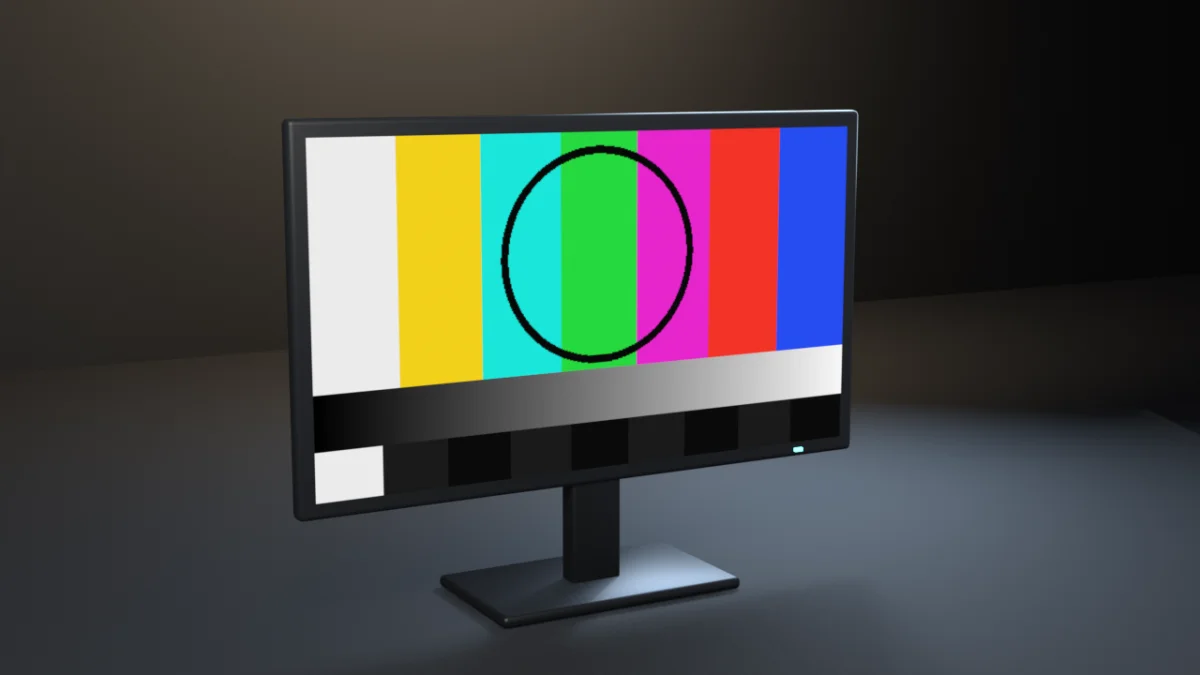
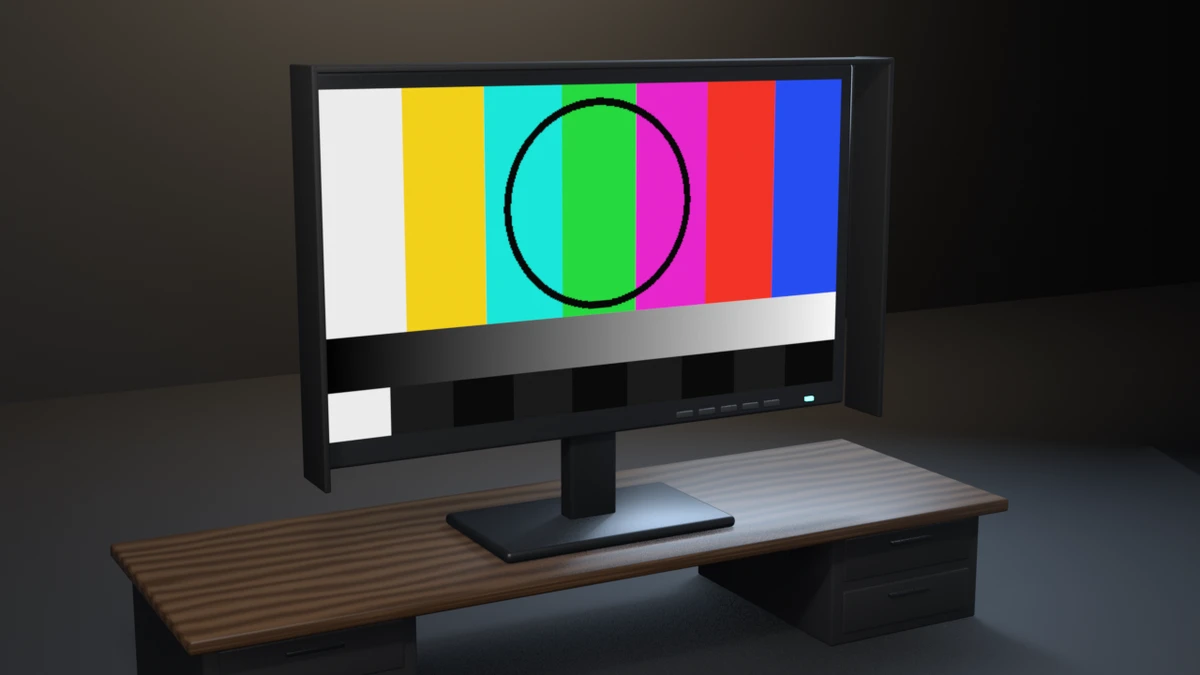
fix(examples): redesign image-pixels-testcard as a hooded reference monitor on a walnut desk
The monitor was a plain slab on a stand. It is now a broadcast reference
display on a walnut desk with drawer pedestals: a slim beveled bezel over a
stepped rear housing with a vent, a matte sun hood framing the picture,
input keys and the teal power LED on the bottom bezel, and the machined
stand. The emissive matte screen, Closest interpolation and the card data
are unchanged, and so are the checks. The render path now runs the
gallery_framing gate (exit 10), which it previously skipped. The desk is
passed as stage, like the floor, since its bottom-edge crop is the
composition. "--output produced no file" moves from exit 10 to 12, and the
README exit table is updated to match.

Evidence (live runs, local):
- E:/Blender-Developer-Tools/.scratch/blender-5.2.1-windows-x64/blender.exe
  (Blender 5.2.1 LTS): check-only exit 0 (byte round-trip max err 0.0019608,
  float 2.97e-08, imposter read 0.0, byte PNG reload 0.0019608).
  --wrong-origin exits 4 (byte round-trip error 0.9215687). --output exit 0.
- E:/Blender-Developer-Tools/.scratch/blender-4.5.11-windows-x64/blender.exe
  (Blender 4.5.11 LTS): check and --output exit 0, same numbers, framing_ok.
- Framing: fill x=0.503 y=0.750; margins l=0.241 r=0.256 b=0.167 t=0.083.
- Contact sheet: candidate luma 0.241 / stage 0.154 / warmth -0.043 /
  sat 0.230 (the cyan/blue bars pull warmth negative), against
  armature-bend 0.243/0.192/-0.144/0.237, damped-track-aim
  0.237/0.218/+0.105/0.178, bmesh-gear 0.237/0.252/+0.092/0.153.

diff --git a/examples/image-pixels-testcard/image_pixels_testcard.py b/examples/image-pixels-testcard/image_pixels_testcard.py
@@ -31,6 +31,11 @@ check. Pass --output to also render a still:
 """
 import bpy, sys, os, math, argparse, tempfile
 
+# Shared Layer 1 framing measurement (render path only) — see
+# gallery_framing.py for the __file__-relative import shim this relies on.
+sys.path.insert(0, os.path.join(os.path.dirname(os.path.abspath(__file__)), os.pardir))
+import gallery_framing  # noqa: E402
+
 W, H = 512, 288
 BYTE_TOL = 0.5 / 255.0 + 1e-6   # 8-bit quantization: round(v*255)/255, worst case half a step
 FLOAT_TOL = 1e-6                # float32 storage of float64 Python values
@@ -250,11 +255,12 @@ def render_still(path, engine):
             mod.limit_method = 'ANGLE'
         return ob
 
-    # -- the monitor: designed object, not a black slab ----------------------
+    # -- the monitor: a broadcast reference display on a walnut desk ---------
     # screen: emissive plane textured with the card (16:9, 3.2 wide), centered
-    # at standing height on its stand
+    # at viewing height on its stand; everything stands on the desk top at dz
     sw, sh = 3.2, 1.8
-    scr_z = 1.61
+    dz = 0.78
+    scr_z = 1.61 + dz
     screen_me = bpy.data.meshes.new("Screen")
     bm = bmesh.new()
     try:
@@ -289,16 +295,54 @@ def render_still(path, engine):
     screen.location = (0.0, 0.0, scr_z)
     scene.collection.objects.link(screen)
 
-    # case: dark polymer shell with a beveled edge the rim light can draw
+    # case: a slim beveled bezel frame over a stepped rear electronics housing
     case_mat = principled("CasePolymer", (0.030, 0.034, 0.042), 0.38)
     metal_mat = principled("StandMetal", (0.055, 0.060, 0.070), 0.36, metallic=0.7)
-    box("Case", (sw + 0.18, 0.11, sh + 0.18), case_mat, (0.0, 0.057, scr_z), bevel=0.03)
-    # machined stand: neck + base plate
-    box("Neck", (0.30, 0.14, 0.64), metal_mat, (0.0, 0.10, 0.37), bevel=0.025)
-    box("Base", (1.45, 0.85, 0.07), metal_mat, (0.0, 0.12, 0.035), bevel=0.03)
-    # power LED on the bottom bezel, a small designed detail
+    hood_mat = principled("HoodMatte", (0.022, 0.023, 0.026), 0.7)
+    box("Case", (sw + 0.18, 0.07, sh + 0.24), case_mat, (0.0, 0.037, scr_z - 0.03), bevel=0.025)
+    box("Housing", (sw - 0.55, 0.26, sh - 0.40), case_mat, (0.0, 0.20, scr_z), bevel=0.05)
+    box("HousingVent", (sw - 1.2, 0.03, 0.30), metal_mat, (0.0, 0.34, scr_z + 0.40), bevel=0.01)
+    # broadcast sun hood: shallow top and side shades that frame the picture
+    hood_d = 0.34
+    top_z = scr_z + sh / 2 + 0.108
+    box("HoodTop", (sw + 0.25, hood_d, 0.035), hood_mat, (0.0, -hood_d / 2 + 0.01, top_z), bevel=0.01)
+    for sx in (-1.0, 1.0):
+        box("HoodSide", (0.035, hood_d, sh + 0.30), hood_mat,
+            (sx * (sw / 2 + 0.108), -hood_d / 2 + 0.01, scr_z - 0.02), bevel=0.01)
+    # machined stand: neck + base plate on the desk
+    box("Neck", (0.30, 0.14, 0.64), metal_mat, (0.0, 0.14, 0.37 + dz), bevel=0.025)
+    box("Base", (1.45, 0.85, 0.07), metal_mat, (0.0, 0.12, 0.035 + dz), bevel=0.03)
+    # bottom-bezel controls: a row of input keys and the power LED
+    key_mat = principled("Keys", (0.10, 0.105, 0.115), 0.45, metallic=0.4)
+    bez_z = scr_z - sh / 2 - 0.09
+    for i in range(5):
+        box("Key", (0.11, 0.02, 0.035), key_mat, (0.55 + 0.15 * i, -0.004, bez_z), bevel=0.006)
     glow_mat = principled("Glow", (0.0, 0.0, 0.0), 0.5, emit=(0.10, 0.85, 0.75), estr=6.0)
-    box("LED", (0.05, 0.02, 0.02), glow_mat, (1.30, -0.006, scr_z - sh / 2 - 0.045))
+    box("LED", (0.05, 0.02, 0.02), glow_mat, (1.42, -0.006, bez_z))
+
+    # the desk: walnut top on two dark drawer pedestals
+    walnut = principled("Walnut", (0.13, 0.065, 0.03), 0.42)
+    grain = walnut.node_tree
+    wave = grain.nodes.new("ShaderNodeTexWave")
+    wave.bands_direction = 'Y'      # grain runs along the desk's length
+    wave.inputs["Scale"].default_value = 3.5
+    wave.inputs["Distortion"].default_value = 7.0
+    wave.inputs["Detail"].default_value = 4.0
+    ramp = grain.nodes.new("ShaderNodeValToRGB")
+    ramp.color_ramp.elements[0].color = (0.085, 0.040, 0.018, 1.0)
+    ramp.color_ramp.elements[1].color = (0.19, 0.10, 0.05, 1.0)
+    grain.links.new(wave.outputs["Fac"], ramp.inputs["Fac"])
+    grain.links.new(ramp.outputs["Color"], grain.nodes["Principled BSDF"].inputs["Base Color"])
+    cab_mat = principled("Cabinet", (0.035, 0.037, 0.042), 0.55)
+    desk = [box("DeskTop", (5.0, 1.7, 0.08), walnut, (0.0, 0.25, dz - 0.04), bevel=0.02)]
+    for sx in (-1.0, 1.0):
+        desk.append(box("DeskPedestal", (1.1, 1.5, dz - 0.08), cab_mat,
+                        (sx * 1.85, 0.30, (dz - 0.08) / 2), bevel=0.015))
+        for k in range(2):
+            desk.append(box("DeskDrawer", (0.95, 0.02, 0.26), cab_mat,
+                            (sx * 1.85, -0.455, 0.20 + 0.32 * k), bevel=0.01))
+            desk.append(box("DeskPull", (0.30, 0.03, 0.025), metal_mat,
+                            (sx * 1.85, -0.475, 0.26 + 0.32 * k), bevel=0.006))
 
     # -- stage: near-black floor + back wall, matte --------------------------
     stage_mat = principled("Studio", (0.03, 0.032, 0.037), 0.7)
@@ -335,21 +379,21 @@ def render_still(path, engine):
         ob.rotation_euler = d.to_track_quat('-Z', 'Y').to_euler()
         scene.collection.objects.link(ob)
 
-    light("Key", (-4.0, -5.0, 6.0), (0.0, 0.0, 1.3), 420.0, 5.0, (1.0, 0.96, 0.9))
-    light("Fill", (4.2, -1.8, 2.4), (0.0, 0.0, 1.5), 55.0, 9.0, (0.75, 0.85, 1.0))
-    light("Rim", (3.4, 2.8, 3.4), (0.3, 0.0, 1.6), 320.0, 3.0, (0.6, 0.78, 1.0))
+    light("Key", (-4.0, -5.0, 6.0 + dz), (0.0, 0.0, 1.3 + dz), 420.0, 5.0, (1.0, 0.96, 0.9))
+    light("Fill", (4.2, -1.8, 2.4 + dz), (0.0, 0.0, 1.5 + dz), 55.0, 9.0, (0.75, 0.85, 1.0))
+    light("Rim", (3.4, 2.8, 3.4 + dz), (0.3, 0.0, 1.6 + dz), 320.0, 3.0, (0.6, 0.78, 1.0))
     # the signature: a warm pool raking the back wall behind the subject;
     # aimed at the wall well above the floor seam so the seam stays in shadow
-    light("Wedge", (3.2, 5.2, 6.2), (2.4, 8.5, 4.2), 500.0, 5.0, (1.0, 0.76, 0.5))
+    light("Wedge", (3.2, 5.2, 6.2 + dz), (2.4, 8.5, 4.2 + dz), 500.0, 5.0, (1.0, 0.76, 0.5))
 
     # camera: 50 mm, slightly above the subject, tracking an empty on it
     target = bpy.data.objects.new("AimTarget", None)
-    target.location = (0.0, 0.0, 1.42)
+    target.location = (0.0, 0.0, 1.12 + dz)
     scene.collection.objects.link(target)
     cam_data = bpy.data.cameras.new("Cam")
     cam_data.lens = 50.0
     cam = bpy.data.objects.new("Cam", cam_data)
-    cam.location = (-4.2, -7.7, 2.85)
+    cam.location = (-4.3, -8.0, 2.85 + dz)
     con = cam.constraints.new('TRACK_TO')
     con.target = target
     scene.collection.objects.link(cam)
@@ -367,8 +411,20 @@ def render_still(path, engine):
     scene.render.resolution_y = 720
     scene.render.image_settings.file_format = 'PNG'
     scene.render.filepath = path
+    bpy.context.view_layer.update()
+    # Layer 1 framing gate before the beauty render (exit 10 on violation):
+    # the hero is the monitor; the desk is its support and, like the floor,
+    # may run out of frame (the bottom crop is the composition)
+    monitor = [o for o in scene.objects if o.type == 'MESH'
+               and not o.name.startswith(("Floor", "Wall", "Desk"))]
+    desk_parts = [o for o in scene.objects if o.name.startswith("Desk")]
+    fcode = gallery_framing.check_framing(scene, cam, hero=monitor,
+                                          elements=monitor,
+                                          stage=[floor, wall] + desk_parts)
+    if fcode:
+        return fcode
     bpy.ops.render.render(write_still=True)
-    return os.path.exists(path) and os.path.getsize(path) > 0
+    return 0 if os.path.exists(path) and os.path.getsize(path) > 0 else 12
 
 
 def main():
@@ -386,9 +442,11 @@ def main():
         return code
 
     if args.output:
-        if not render_still(os.path.abspath(args.output), args.engine):
-            print("ERROR: render produced no file", file=sys.stderr)
-            return 10
+        rcode = render_still(os.path.abspath(args.output), args.engine)
+        if rcode:
+            if rcode == 12:
+                print("ERROR: render produced no file", file=sys.stderr)
+            return rcode
         print(f"rendered still {args.output}")
 
     print("image-pixels-testcard OK")

diff --git a/examples/image-pixels-testcard/README.md b/examples/image-pixels-testcard/README.md
@@ -82,7 +82,8 @@ against it.
 | 7 | `save()` source/buffer-drop contract drifted |
 | 8 | `save_render()` flipped source or disturbed the buffer |
 | 9 | Byte PNG save/reload error |
-| 10 | `--output` produced no file |
+| 10 | Framing gate violation on the `--output` path (`gallery_framing`) |
+| 12 | `--output` produced no file |
 
 The `blender-smoke` workflow runs the check on Blender 5.2 LTS and 4.5 LTS
 (5.1 on the weekly cron, the `needs-5.1` PR label, or manual dispatch).
@@ -91,8 +92,12 @@ Smoke does not pass `--output` or `--wrong-origin`.
 In the render, `Closest` interpolation keeps the pixel grid honest —
 the jagged circle edge is the 512 × 288 buffer itself, and the white marker in the
 PLUGE row sits at the bottom-left because that is where pixel (0, 0) lives. The
-monitor is staged as a designed object — beveled dark-polymer case, machined metal
-stand, teal power LED — on the dark studio stage from `docs/VISUAL-STYLE.md`
+monitor is staged as a broadcast reference display — slim beveled bezel over a
+stepped rear housing, a matte sun hood framing the picture, input keys and a teal
+power LED on the bottom bezel, a machined stand — on a walnut desk with drawer
+pedestals, on the dark studio stage from `docs/VISUAL-STYLE.md`
 (Standard view transform; warm key, cool fill and rim; a warm pool raking the back
 wall). The screen stays emissive and matte — specular off, emission strength 1.0 —
-so the card's values read exactly.
+so the card's values read exactly. The render path gates framing through
+`examples/gallery_framing.py` (exit 10) before writing; the desk is passed as
+stage, like the floor, because its crop at the frame bottom is the composition.

diff --git a/README.md b/README.md
@@ -298,7 +298,7 @@ shader `Attribute` node is actually linked to Base Color.
 </tr>
 <tr>
 <td width="46%" valign="middle">
-<a href="examples/image-pixels-testcard/"><img src="examples/image-pixels-testcard/preview.webp" alt="Image pixels testcard: a studio monitor on a machined metal stand showing a procedural broadcast test card — seven neon color bars behind the classic dark circle, a luminance ramp, and a PLUGE row with a white bottom-left origin marker — in a dark studio with a warm pool raking the back wall" /></a>
+<a href="examples/image-pixels-testcard/"><img src="examples/image-pixels-testcard/preview.webp" alt="Image pixels testcard: a hooded broadcast reference monitor on a walnut desk showing a procedural broadcast test card — seven neon color bars behind the classic dark circle, a luminance ramp, and a PLUGE row with a white bottom-left origin marker — in a dark studio with a warm pool raking the back wall" /></a>
 </td>
 <td valign="middle">
 
